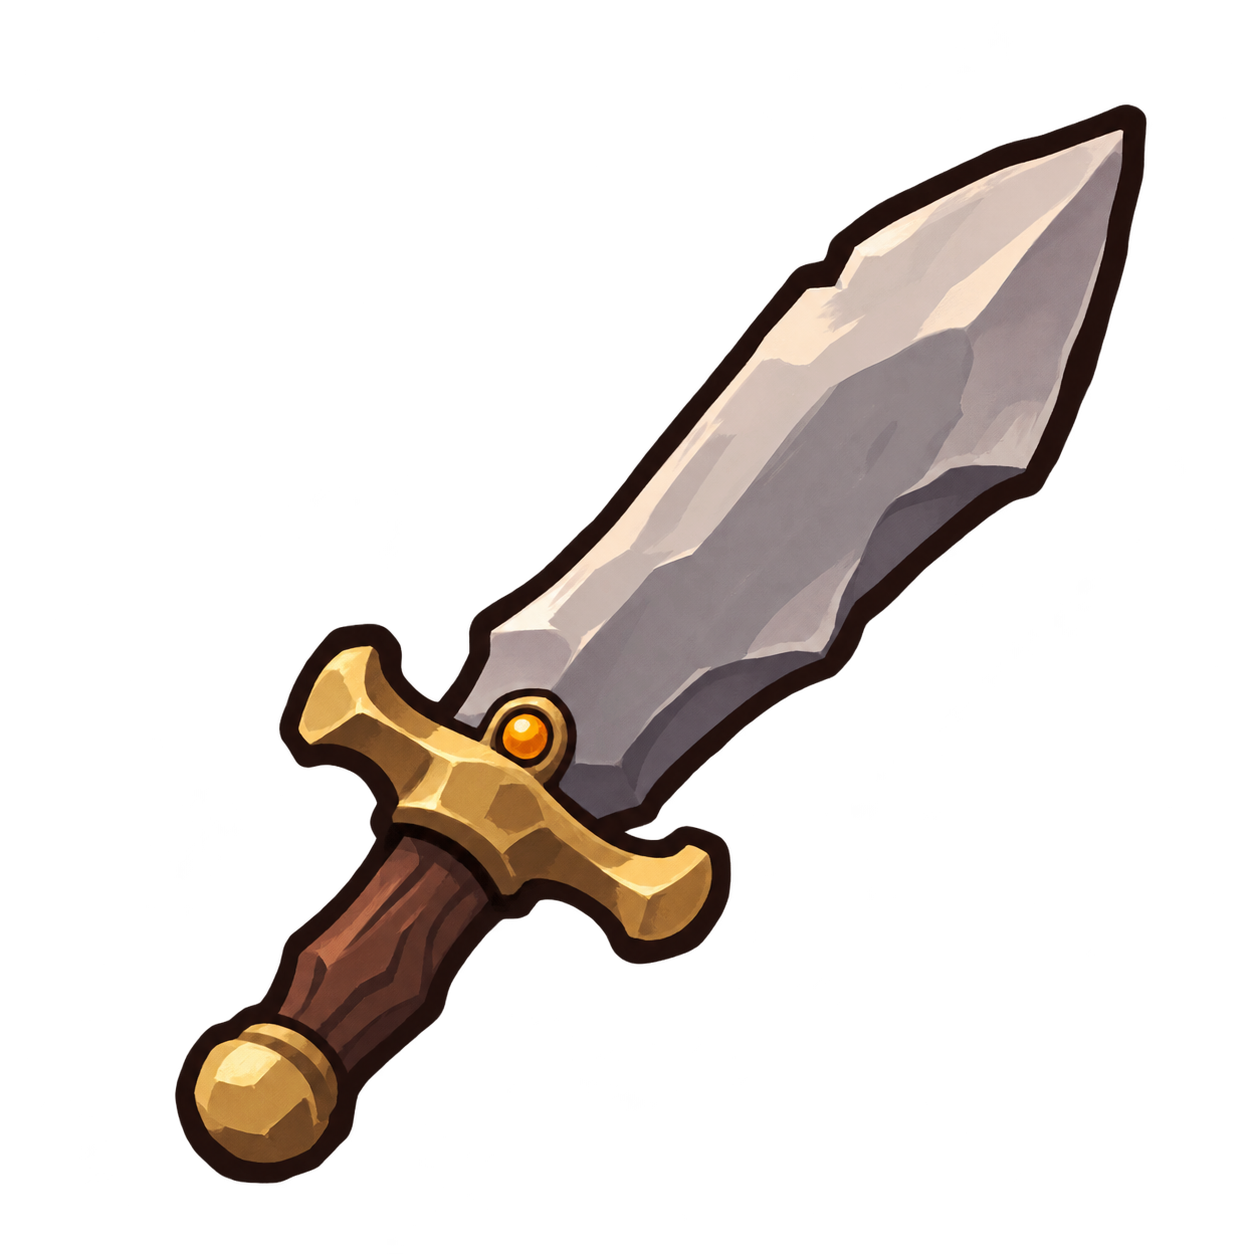
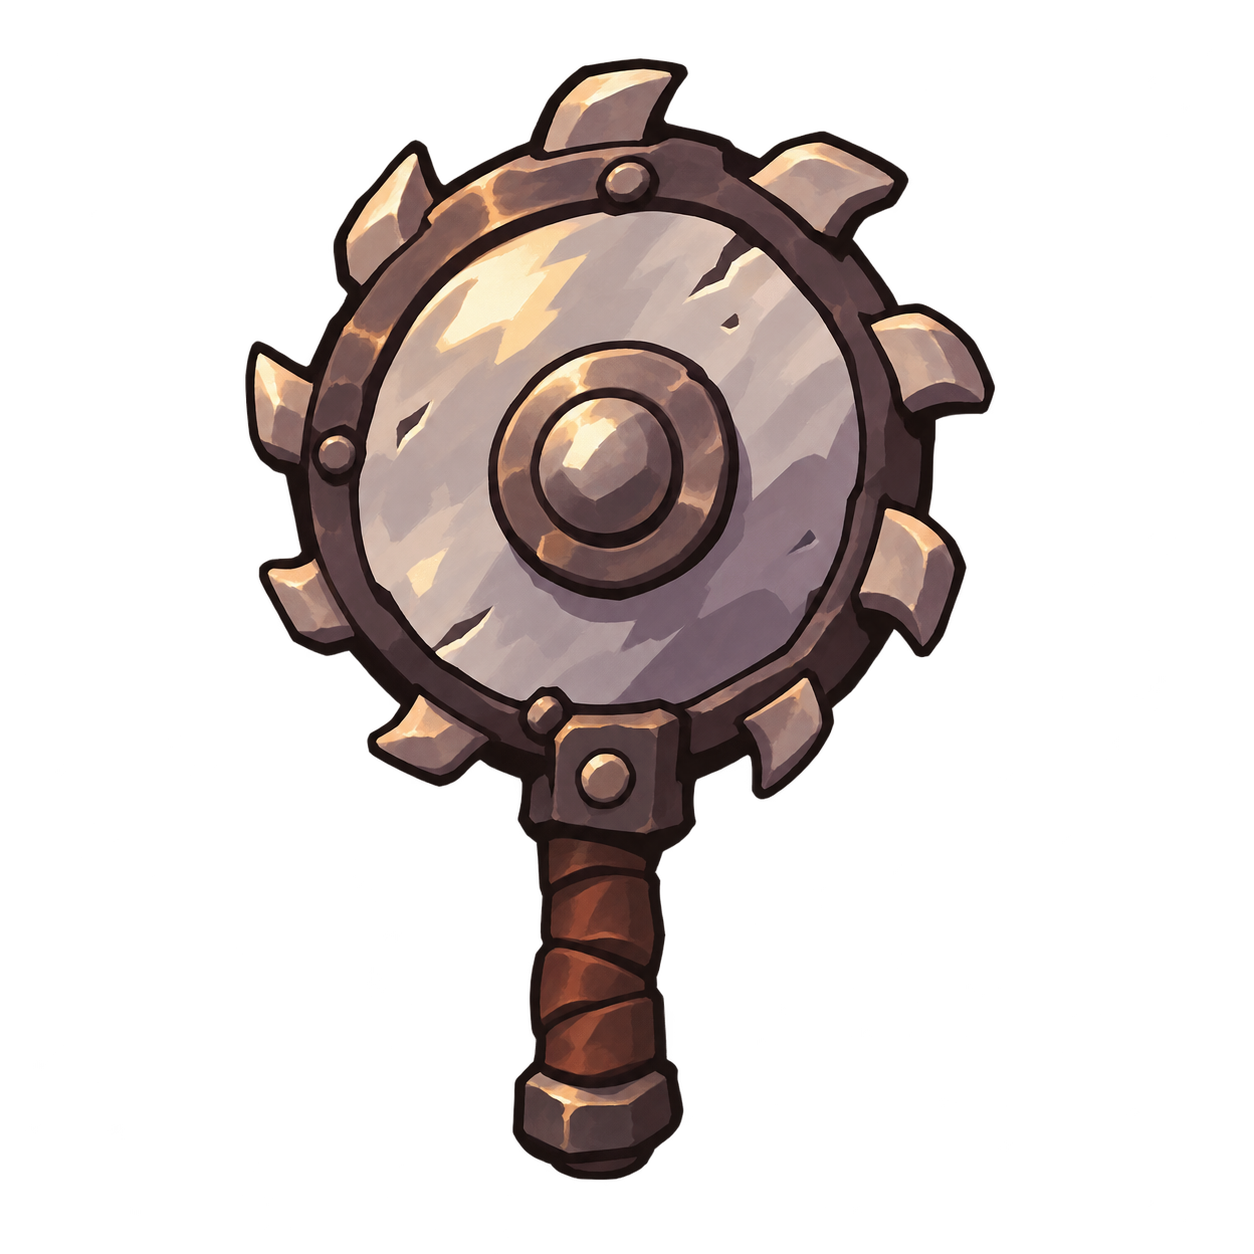
Match Orbit Blades artwork to its held model

diff --git a/ui-preview/weapon-shop/index.html b/ui-preview/weapon-shop/index.html
@@ -87,7 +87,7 @@
         <div class="section-head"><h2>CHOOSE YOUR WEAPON</h2><span>Buy, lock for later, or reroll</span></div>
         <div class="offers">
           <article class="offer selected" data-tier="1" data-price="35" tabindex="0">
-            <span class="rarity">I · COMMON</span><div class="art"><img src="assets/orbit-blades.png" alt="Orbit Blades sword"></div>
+            <span class="rarity">I · COMMON</span><div class="art"><img src="assets/orbit-blades.png" alt="Orbit Blades circular saw"></div>
             <div class="offer-body"><h3>Orbit Blades</h3><div class="type">MELEE · EDGE / SPECTRAL</div><p class="desc">Two blades circle around you.</p><div class="stats"><div class="stat"><span>Damage</span><b>6</b></div><div class="stat"><span>Blades</span><b>2</b></div><div class="stat"><span>Crit chance</span><b>8%</b></div></div></div>
             <div class="offer-actions"><button class="buy" type="button">35 ◈ BUY</button><button class="lock" type="button" aria-label="Lock Orbit Blades" aria-pressed="false"><svg viewBox="0 0 24 24" aria-hidden="true"><rect x="5" y="10" width="14" height="11" rx="2"/><path d="M8 10V7a4 4 0 0 1 8 0v3"/></svg></button></div>
           </article>

diff --git a/ui-preview/weapon-shop/README.md b/ui-preview/weapon-shop/README.md
@@ -11,4 +11,6 @@ This is a standalone, clickable review page. It does not connect to Roblox gamep
 
 The four weapon illustrations were created with the built-in image generation tool, using the item contact sheet as a style reference and the current weapon model descriptions as subject constraints. All four have transparent backgrounds. Prompts requested one weapon per icon, chunky asymmetrical shape, dark ink contour, broad painted lighting, no frame or text. The icon files live in `assets/`.
 
+The Orbit Blades image was corrected after checking the authored mesh in Studio: its current held model is a circular saw, not a sword.
+
 The four cards and their stats are a sample view, not a captured live shop state. Buying, locking and rerolling demonstrate visual states only. Prices and the level 8 sidebar are illustrative. The in-game implementation will use the actual server shop state and current stat calculations.
